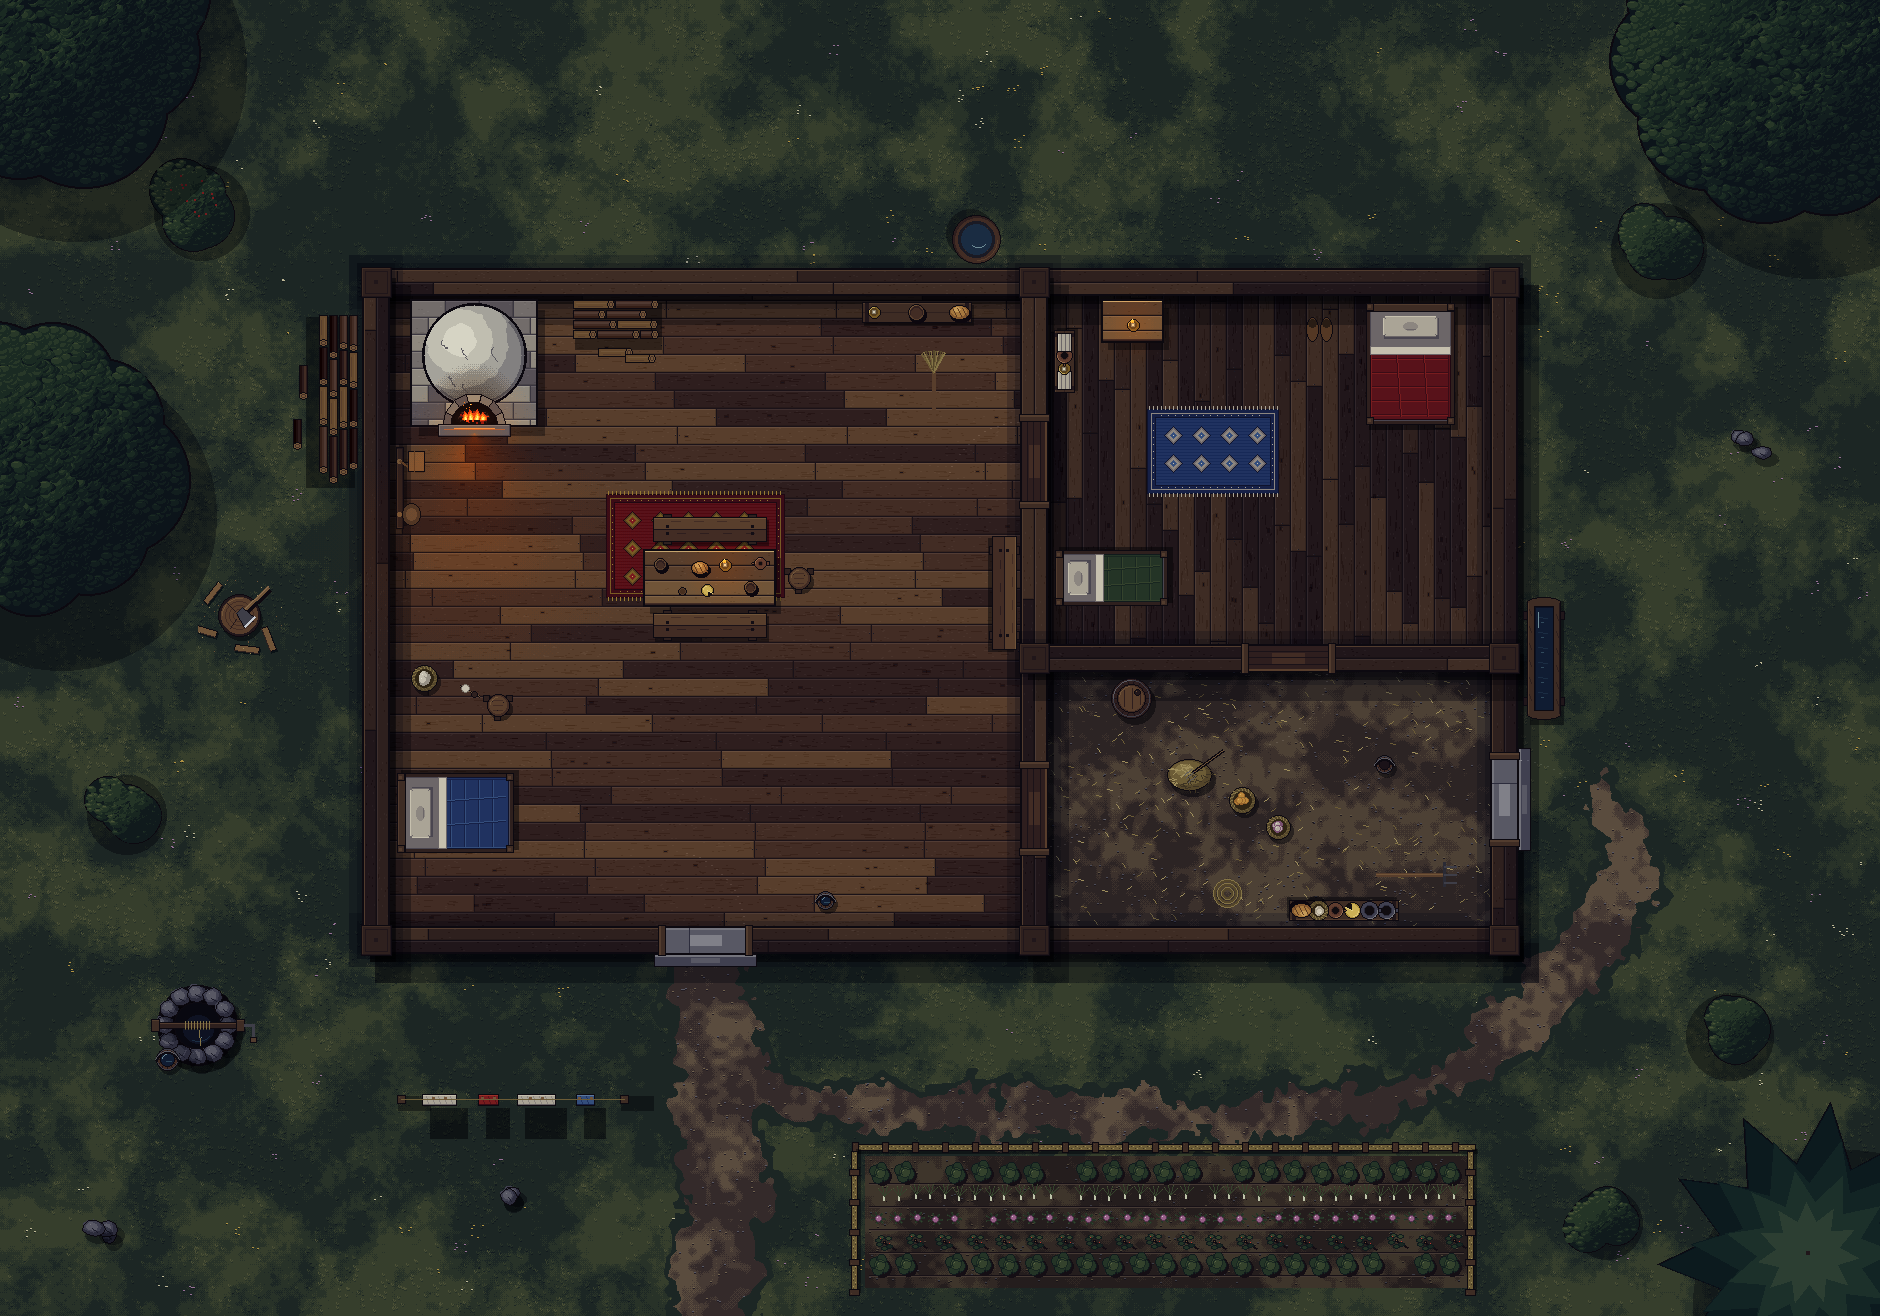
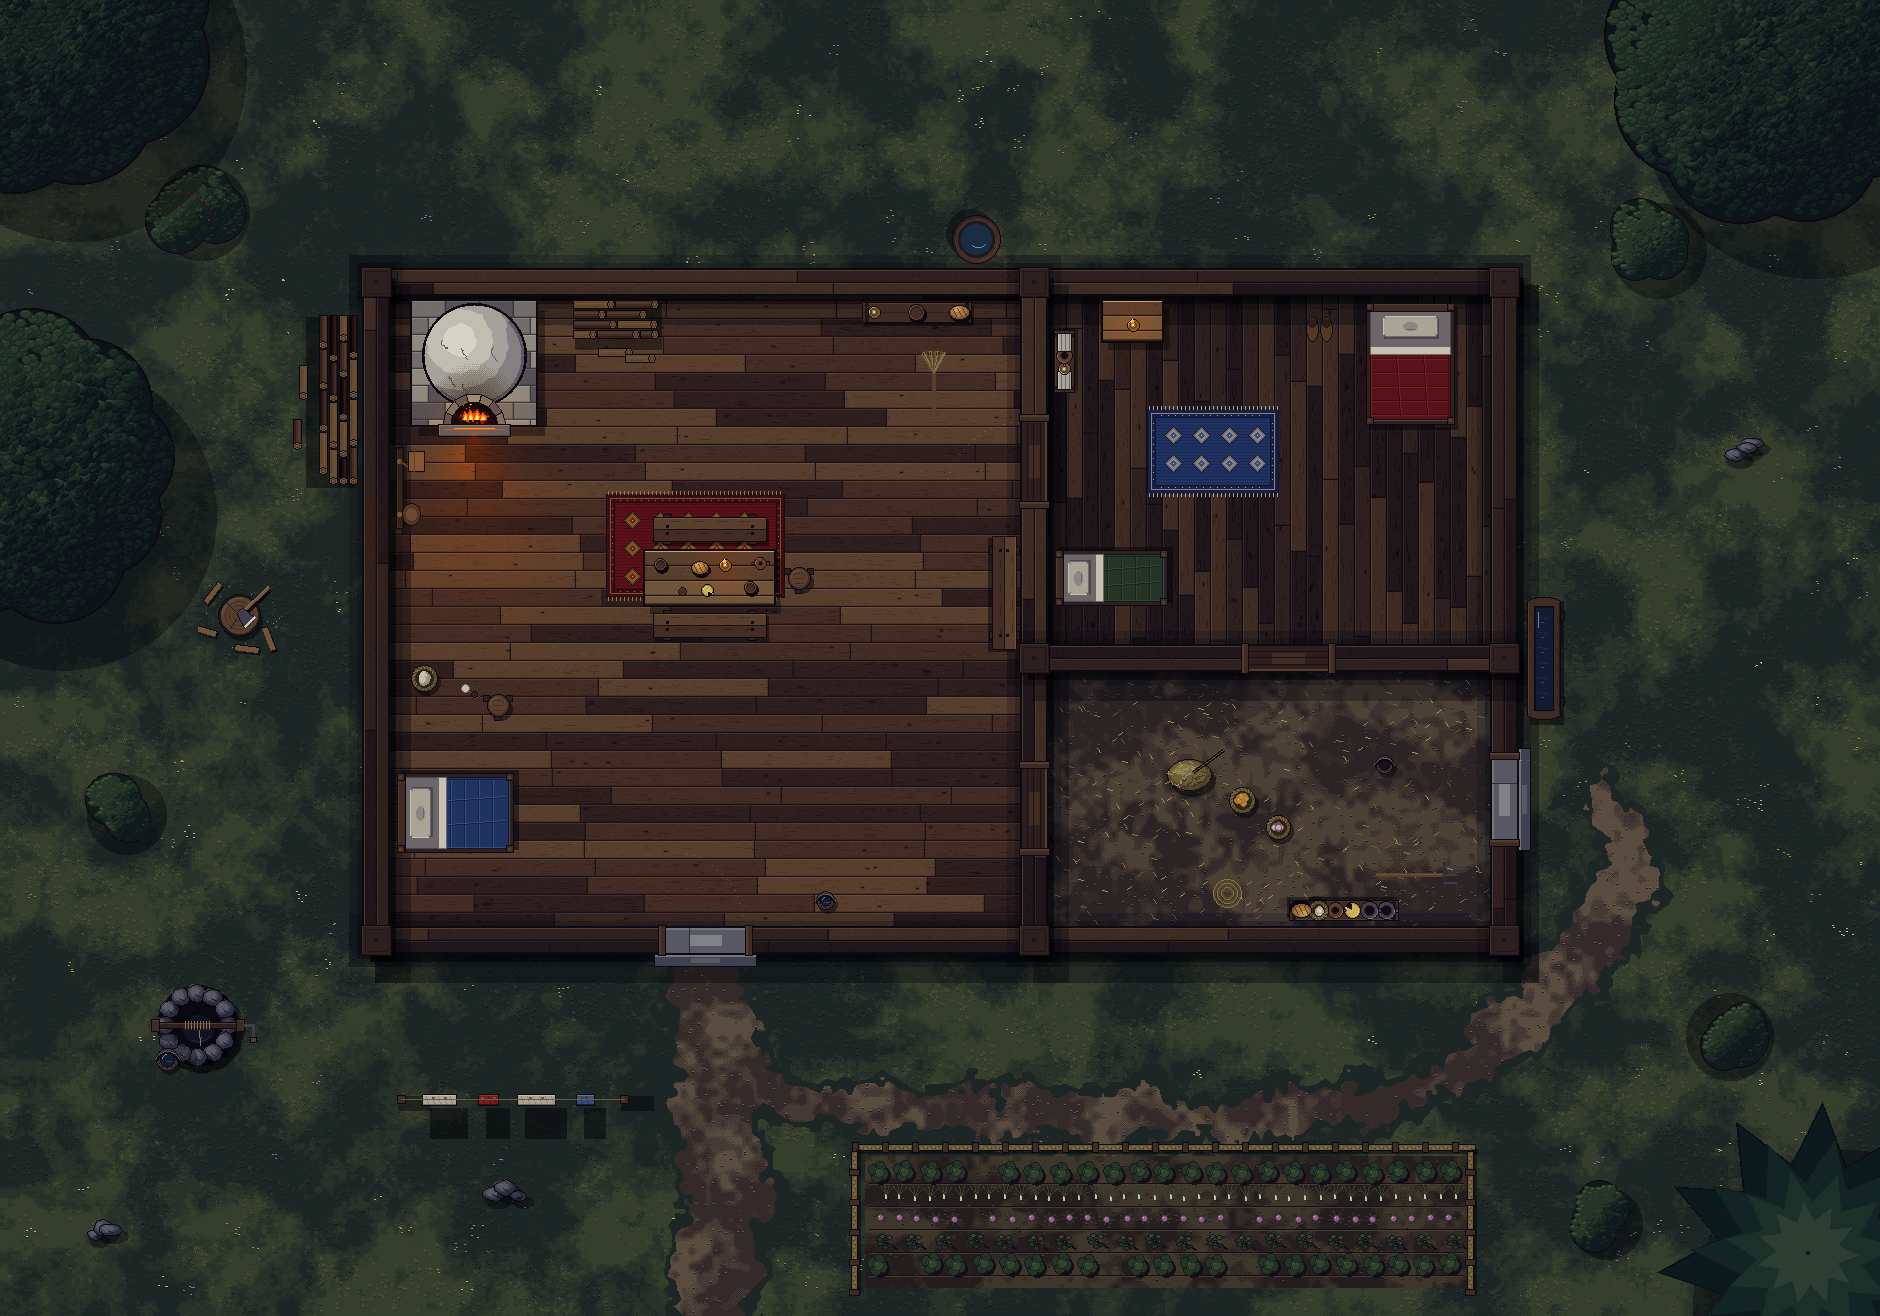
Farmhouse keeps its fourteen containers, all from the library (B6338)
Claude-Session: https://claude.ai/code/session_01YQQrYjgTbiNVQaBnxgbjtB

diff --git a/tools/pixelmap/maps/farmhouse.py b/tools/pixelmap/maps/farmhouse.py
@@ -86,8 +86,9 @@ put(rec, "rug", 12.2, 4.35, w=7, d=4.5, var="blue")
 put(rec, "boots", 13.9, 3.35)
 
 # ---- store ----
-wall_put(rec, "casks", STORE, 12.25, STOREROOM, w=4.5, name="Casks of grain and apples")
-for x in (14.4, 14.9): put(rec, "sack", x, 7.2, w=2.25, d=1.75, name="Grain sack")
+for at, hd in ((11.48, "grain"), (11.98, "grain"), (12.48, "apples")):
+    wall_put(rec, "cask", STORE, at, STOREROOM, w=2.25, d=2.25, var=hd, name={"grain": "Cask of grain", "apples": "Cask of apples"}[hd])
+for x, y in ((14.4, 7.2), (14.9, 7.2), (14.4, 7.6), (14.9, 7.6)): put(rec, "sack", x, y, w=2.25, d=1.75, name="Grain sack")
 wall_put(rec, "shelf", S_, 14.3, STOREROOM, w=6, var="stores", name="Shelf of stores")
 put(rec, "crate", 11.2, 9.3, face="n", var="apples", name="Crate of apples"); put(rec, "crate", 11.75, 9.3, face="n", var="jars", name="Crate of jars")
 put(rec, "basket", 13.05, 8.35, var="onions", name="Basket of onions"); put(rec, "basket", 13.45, 8.65, w=1.5, d=1.5, var="turnips", name="Basket of turnips")

diff --git a/tools/pixelmap/library/catalogue.py b/tools/pixelmap/library/catalogue.py
@@ -134,7 +134,7 @@ add("window-glazed", "glazed window", "opening", (5, 1), None, mount="opening", 
 # ---------------------------------------------------------------- containers and goods
 add("cask", "cask", "container", ((1.75, 2.5), (1.75, 2.5)),
     lambda tm, x, y, w, h, st, v: pr.barrel(tm, x + w / 2, y + h / 2, rpx(w, h, .48), holds=v.get("holds", "water"), head="s", state=st if st != "one" else "closed"),
-    front=True, clear=1, states=("closed", "open"), openable="barrel", tags=("store", "kitchen", "brew", "shop", "inn", "cellar", "street"),
+    front=True, clear=1, mount="floor", states=("closed", "open"), openable="barrel", tags=("store", "kitchen", "brew", "shop", "inn", "cellar", "street"),
     variants={"water": {"holds": "water"}, "grain": {"holds": "grain"}, "apples": {"holds": "apples"}, "kraut": {"holds": "kraut"}},
     ref="standing casks 2 to 2 1/2 ft across; the head, lifted out, leans in front")
 add("crate", "crate", "container", ((2, 2.75), (2, 2.75)),
